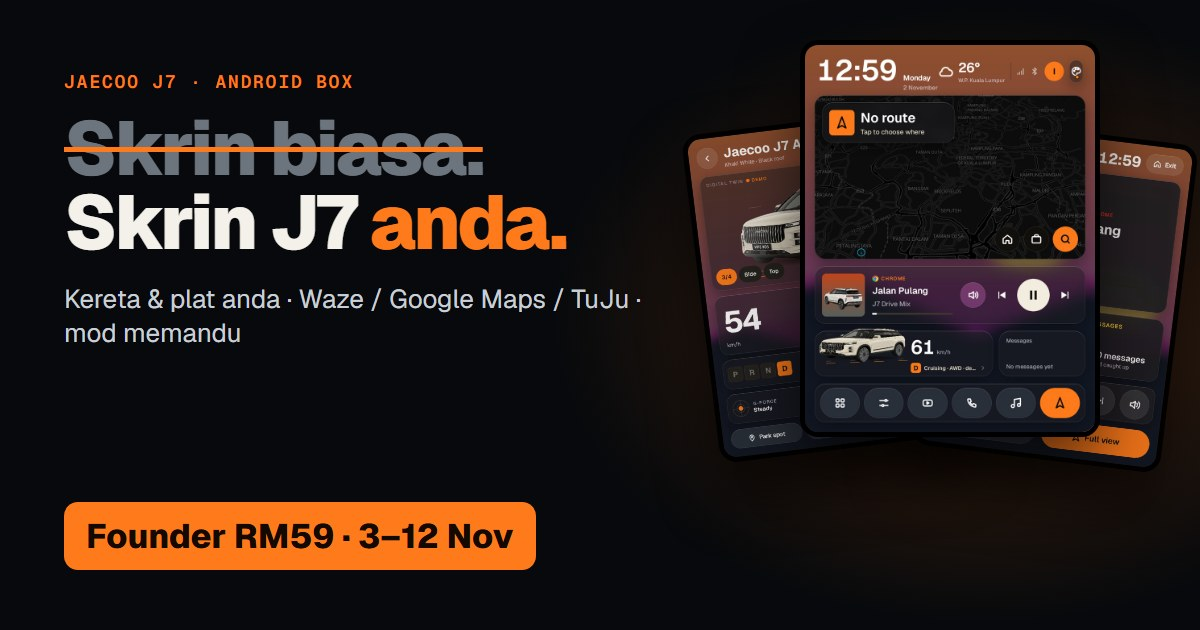
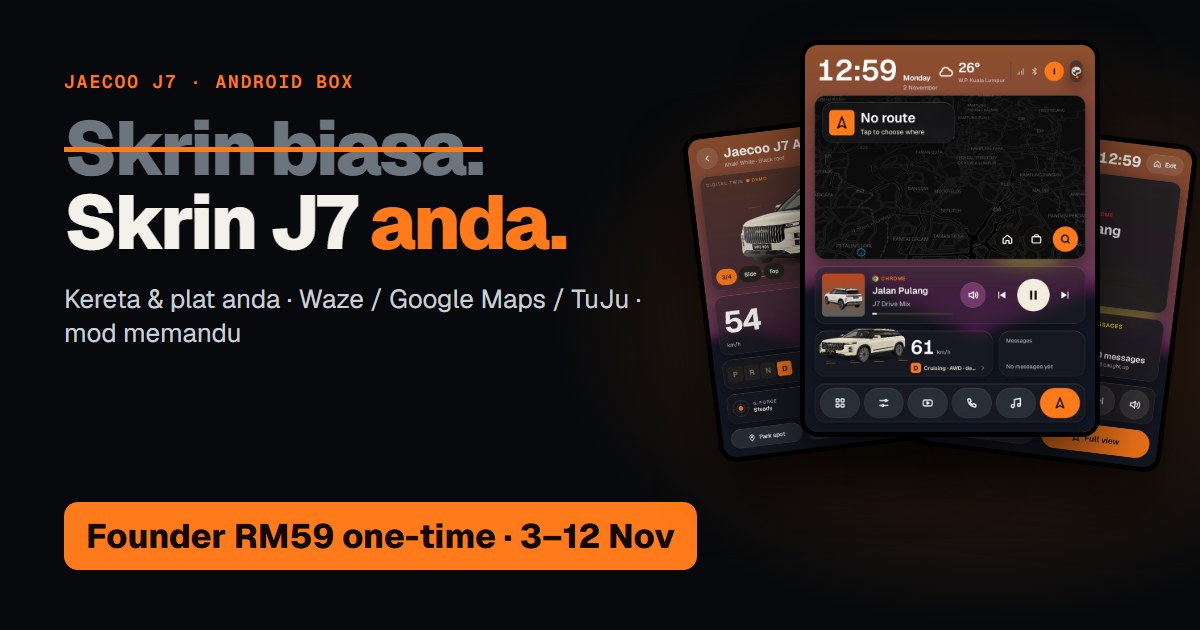
Say the price is a one-time payment, not monthly
Buyers asked whether the price is one-time or monthly. Every price now
says "Bayar sekali · tiada yuran bulanan" / "One-time payment · no
monthly fee": the banner, both price cards, the booking form's package
options, the terms and the share image. A new first FAQ answers it
directly, and the updates answer says the app keeps working after the
12 months. The portal's payment messages say it too.

Changed region(s): [[0.2775, 0.7841, 0.5858, 0.9048]]

diff --git a/index.html b/index.html
@@ -6,7 +6,7 @@
 <title>J7 Launcher · Pre-booking</title>
 <meta name="description" content="J7 Launcher: a custom screen for the Jaecoo J7's Android box, with your own car and plate number. Founder pre-order 3–12 Nov.">
 <meta property="og:title" content="J7 Launcher · Your J7's screen">
-<meta property="og:description" content="A custom screen for the Jaecoo J7's Android box: your car & plate, Waze / Google Maps / TuJu, driving mode. Founder price from RM59, 3–12 Nov. BM / EN.">
+<meta property="og:description" content="A custom screen for the Jaecoo J7's Android box: your car & plate, Waze / Google Maps / TuJu, driving mode. Founder price from RM59, one-time payment (no monthly fee), 3–12 Nov. BM / EN.">
 <meta property="og:image" content="https://j7launcher.github.io/img/share.jpg">
 <meta property="og:url" content="https://j7launcher.github.io/">
 <meta property="og:type" content="website">
@@ -60,7 +60,7 @@
     <div class="wrap offer-strip">
       <div><span class="k" data-i18n="strip.pre">Pre-order founder</span><b>3 – 12 Nov 2026</b></div>
       <div><span class="k" data-i18n="strip.slots">Slot</span><b id="slots" data-i18n="strip.slotsv">30 sahaja</b></div>
-      <div><span class="k" data-i18n="strip.from">Dari</span><b>RM59</b></div>
+      <div><span class="k" data-i18n="strip.from">Dari</span><b>RM59</b> <span class="k" data-i18n="strip.once">sekali bayar</span></div>
       <div class="count" aria-live="polite"><span class="k" data-i18n="strip.ends">Tamat dalam</span><b id="countdown">–</b></div>
     </div>
   </section>
@@ -107,11 +107,12 @@
   <section id="pricing" class="sec alt">
     <div class="wrap">
       <h2 data-i18n="price.h">Harga founder</h2>
-      <p class="sec-lead" data-i18n="price.lead">Untuk 30 tempahan pertama, 3–12 Nov. Mulai 13 Nov: harga biasa RM79 (Standard) dan RM119 (Pro).</p>
+      <p class="sec-lead" data-i18n="price.lead">Bayar sekali sahaja, tiada yuran bulanan. Untuk 30 tempahan pertama, 3–12 Nov. Mulai 13 Nov: harga biasa RM79 (Standard) dan RM119 (Pro).</p>
       <div class="plans">
         <div class="plan">
           <h3>Standard</h3>
           <p class="price"><b>RM59</b> <span class="norm" data-i18n="price.normS">biasa RM79 mulai 13 Nov</span></p>
+          <p class="once" data-i18n="price.once">Bayar sekali · tiada yuran bulanan</p>
           <ul>
             <li data-i18n="ps.1">Skrin utama khas dengan kereta &amp; plat anda</li>
             <li data-i18n="ps.2">Waze / Google Maps / TuJu, skrin belah &amp; dok</li>
@@ -125,6 +126,7 @@
           <span class="badge" data-i18n="price.best">Paling lengkap</span>
           <h3>Pro</h3>
           <p class="price"><b>RM89</b> <span class="norm" data-i18n="price.normP">biasa RM119 mulai 13 Nov</span></p>
+          <p class="once" data-i18n="price.once">Bayar sekali · tiada yuran bulanan</p>
           <ul>
             <li class="plus" data-i18n="pp.0">Semua dalam Standard, dan:</li>
             <li data-i18n="pp.1">Profil pemandu (sehingga 4 orang)</li>
@@ -135,7 +137,7 @@
           <a class="btn full" href="#book" data-pick="pro" data-i18n="price.pickP">Pilih Pro</a>
         </div>
       </div>
-      <p class="note" data-i18n-html="price.both">Kedua-dua: <b>dibina khas dengan nombor plat anda</b> · bantuan pasang melalui WhatsApp · kemas kini percuma 12 bulan (sampai dalam app) · <b>bayar hanya selepas sah serasi</b> · wang dikembalikan penuh jika tak berfungsi dalam 7 hari.</p>
+      <p class="note" data-i18n-html="price.both">Kedua-dua: <b>bayar sekali, app milik anda</b> · <b>dibina khas dengan nombor plat anda</b> · bantuan pasang melalui WhatsApp · kemas kini percuma 12 bulan (sampai dalam app) · <b>bayar hanya selepas sah serasi</b> · wang dikembalikan penuh jika tak berfungsi dalam 7 hari.</p>
     </div>
   </section>
 
@@ -261,8 +263,8 @@
         <fieldset>
           <legend data-i18n="g4">4 · Pilihan</legend>
           <div class="cards" role="radiogroup" aria-label="Package">
-            <label class="card"><input type="radio" name="package" value="Standard RM59" required><span><b>Standard</b> RM59</span></label>
-            <label class="card"><input type="radio" name="package" value="Pro RM89"><span><b>Pro</b> RM89</span></label>
+            <label class="card"><input type="radio" name="package" value="Standard RM59" required><span><b>Standard</b> RM59 <small data-i18n="price.oneoff">sekali bayar</small></span></label>
+            <label class="card"><input type="radio" name="package" value="Pro RM89"><span><b>Pro</b> RM89 <small data-i18n="price.oneoff">sekali bayar</small></span></label>
           </div>
           <div class="row2">
             <label><span data-i18n="q.nav">App peta utama</span>
@@ -324,10 +326,11 @@
   <section id="faq" class="sec">
     <div class="wrap narrow">
       <h2>FAQ</h2>
+      <details><summary data-i18n="q0">Bayar sekali atau bulanan?</summary><p data-i18n="a0">Bayar sekali sahaja. Tiada langganan dan tiada yuran bulanan: harga founder RM59 (Standard) atau RM89 (Pro), dan app itu milik anda. Termasuk kemas kini percuma 12 bulan; selepas itu app terus berfungsi seperti biasa.</p></details>
       <details><summary data-i18n="q1">Adakah ia menjejaskan waranti kereta?</summary><p data-i18n="a1">J7 Launcher hanya app pada Android box. Ia tidak mengubah kereta atau sistem Jaecoo, dan boleh dibuang bila-bila masa untuk kembali ke skrin asal.</p></details>
       <details><summary data-i18n="q2">Selamat digunakan ketika memandu?</summary><p data-i18n="a2">Mod memandu guna huruf besar dan butang besar. Video YouTube berhenti bila kereta bergerak; ada suis untuk penumpang, tetapi pemandu tidak boleh menonton ketika memandu.</p></details>
       <details><summary data-i18n="q3">Bagaimana dengan data saya?</summary><p data-i18n="a3">Mesej, muzik dan lokasi tidak dihantar kepada saya. Untuk peta, cuaca, had laju dan harga minyak, box meminta maklumat kawasan anda daripada perkhidmatan tersebut; suara amaran mungkin guna suara dalam talian Google. Lihat notis privasi di bawah untuk maklumat tempahan.</p></details>
-      <details><summary data-i18n="q4">Bagaimana kemas kini diterima?</summary><p data-i18n="a4">App menyemak kemas kini sendiri dan memberitahu anda; tekan Pasang. Percuma selama 12 bulan.</p></details>
+      <details><summary data-i18n="q4">Bagaimana kemas kini diterima?</summary><p data-i18n="a4">App menyemak kemas kini sendiri dan memberitahu anda; tekan Pasang. Percuma selama 12 bulan; selepas itu app terus berfungsi.</p></details>
       <details><summary data-i18n="q5">Kalau box saya tak serasi?</summary><p data-i18n="a5">Tiada bayaran. Jika sudah bayar dan app tak berfungsi dalam 7 hari, wang dikembalikan penuh.</p></details>
       <details><summary data-i18n="q6">Perlu adapter OBD?</summary><p data-i18n="a6">Tidak. Semua ciri berfungsi tanpa OBD, kecuali data OBD dan amaran minyak rendah dalam Pro (masih eksperimen).</p></details>
     </div>
@@ -340,7 +343,7 @@
       <p data-i18n="pv.2">Tujuan: menyemak keserasian, membina app khas untuk kereta anda, menghubungi anda dan memberi sokongan. Data disimpan dalam Google Sheet peribadi saya, tidak dijual atau dikongsi.</p>
       <p data-i18n="pv.3">Anda boleh minta salinan atau padam data anda bila-bila masa melalui WhatsApp 018-716 2505. Selaras dengan Akta Perlindungan Data Peribadi 2010.</p>
       <p data-i18n="pv.5">Kaunter tempahan di laman ini menunjukkan jumlah sebenar daripada senarai tempahan. Aktiviti terkini hanya menunjukkan negeri dan pakej, tanpa nama. Lawatan ke laman ini dikira tanpa nama (nombor rawak dalam pelayar anda, dari mana anda datang, bahasa, telefon atau komputer), tanpa kuki dan tanpa data peribadi.</p>
-      <p data-i18n="pv.4">Terma: harga founder untuk tempahan 3–12 Nov 2026. Bayaran hanya selepas keserasian disahkan. Wang dikembalikan penuh jika app tak berfungsi pada box anda dalam 7 hari selepas dipasang.</p>
+      <p data-i18n="pv.4">Terma: harga ialah bayaran sekali, bukan langganan. Harga founder untuk tempahan 3–12 Nov 2026. Bayaran hanya selepas keserasian disahkan. Wang dikembalikan penuh jika app tak berfungsi pada box anda dalam 7 hari selepas dipasang.</p>
     </div>
   </section>
 </main>

diff --git a/app.js b/app.js
@@ -25,6 +25,7 @@ const EN = {
   'strip.slots': 'Slots',
   'strip.slotsv': 'Only 30',
   'strip.from': 'From',
+  'strip.once': 'one-time',
   'strip.ends': 'Closes in',
   'feat.h': 'What you get',
   'feat.lead': 'Built and tested in my own J7 AWD. Everything below is in Standard unless marked Pro.',
@@ -47,7 +48,7 @@ const EN = {
   'f9.h': 'OBD data',
   'f9.p': 'With an OBD adapter: fuel level and the nearest station when fuel is low. Still experimental: not yet tested with an adapter in a car.',
   'price.h': 'Founder prices',
-  'price.lead': 'For the first 30 bookings, 3–12 Nov. From 13 Nov: normal price RM79 (Standard) and RM119 (Pro).',
+  'price.lead': 'One-time payment, no monthly fee. For the first 30 bookings, 3–12 Nov. From 13 Nov: normal price RM79 (Standard) and RM119 (Pro).',
   'price.normS': 'normal RM79 from 13 Nov',
   'price.normP': 'normal RM119 from 13 Nov',
   'ps.1': 'Custom home screen with your car & plate',
@@ -63,7 +64,9 @@ const EN = {
   'pp.3': 'YouTube videos when parked',
   'pp.4': 'OBD data (experimental, untested, needs an adapter)',
   'price.pickP': 'Choose Pro',
-  'price.both': 'Both: <b>built for your plate number</b> · install help on WhatsApp · 12 months of free updates (they arrive in the app) · <b>pay only after it\'s confirmed to fit</b> · full refund if it doesn\'t work within 7 days.',
+  'price.once': 'One-time payment · no monthly fee',
+  'price.oneoff': 'one-time',
+  'price.both': 'Both: <b>pay once, the app is yours</b> · <b>built for your plate number</b> · install help on WhatsApp · 12 months of free updates (they arrive in the app) · <b>pay only after it\'s confirmed to fit</b> · full refund if it doesn\'t work within 7 days.',
   'fit.h': 'Does it fit your car?',
   'fit.lead': 'J7 Launcher installs on the Android box (AI box) connected to the J7\'s screen. It doesn\'t change the car\'s own systems.',
   'fit.1': 'Jaecoo J7 (tested on the J7 AWD; other variants I check first)',
@@ -140,6 +143,8 @@ const EN = {
   'about.p2': 'This is an independent project: not an official Jaecoo or Chery product, and it doesn\'t touch the car\'s systems. You deal with me directly.',
   'about.contact': 'Contact',
   'about.wa': 'WhatsApp me',
+  'q0': 'Is it a one-time payment or monthly?',
+  'a0': 'One-time payment. No subscription and no monthly fee: the founder price is RM59 (Standard) or RM89 (Pro), and the app is yours. It includes 12 months of free updates; after that the app keeps working as it is.',
   'q1': 'Does it affect my car\'s warranty?',
   'a1': 'J7 Launcher is only an app on the Android box. It doesn\'t change the car or Jaecoo\'s systems, and you can remove it any time to get the original screen back.',
   'q2': 'Is it safe to use while driving?',
@@ -147,7 +152,7 @@ const EN = {
   'q3': 'What about my data?',
   'a3': 'Messages, music and location are never sent to me. For maps, weather, speed limits and fuel prices, the box asks those services about your area; spoken alerts may use Google\'s online voice. See the privacy notice below for your booking details.',
   'q4': 'How do updates arrive?',
-  'a4': 'The app checks for updates by itself and tells you; tap Install. Free for 12 months.',
+  'a4': 'The app checks for updates by itself and tells you; tap Install. Free for 12 months; after that the app keeps working.',
   'q5': 'What if my box doesn\'t fit?',
   'a5': 'No payment. If you\'ve paid and the app doesn\'t work within 7 days, you get a full refund.',
   'q6': 'Do I need an OBD adapter?',
@@ -156,7 +161,7 @@ const EN = {
   'pv.1': 'Data collected: name, WhatsApp number, email (optional), state, car details, plate number, Android box details and your choices.',
   'pv.2': 'Purpose: checking compatibility, building the app for your car, contacting you and supporting you. Kept in my private Google Sheet, never sold or shared.',
   'pv.3': 'You can ask for a copy or deletion of your data any time on WhatsApp 018-716 2505, in line with the Personal Data Protection Act 2010.',
-  'pv.4': 'Terms: founder prices for bookings from 3–12 Nov 2026. Payment only after compatibility is confirmed. Full refund if the app doesn\'t work on your box within 7 days of installation.',
+  'pv.4': 'Terms: prices are one-time payments, not a subscription. Founder prices for bookings from 3–12 Nov 2026. Payment only after compatibility is confirmed. Full refund if the app doesn\'t work on your box within 7 days of installation.',
   'foot.ind': 'Independent project · not an official Jaecoo / Chery product',
   'm.left': 'founder slots left',
   'm.booked': 'already booked',

diff --git a/apps-script/Portal.html b/apps-script/Portal.html
@@ -433,13 +433,13 @@ const MSGS = {
   },
   serasi: {
     label: 'Fits: price + bank',
-    ms: (o) => `Berita baik ${firstName(o)}: box anda serasi ✅\n\nPakej *${pkgName(o)}*${onsite(o) ? ' + pasang di lokasi' : ''}: *RM${amount(o)}*\nBayaran melalui DuitNow / pindahan:\n${bankText('ms')}\n\nHantar resit di sini, dan saya mula bina app dengan plat ${o.plate} anda. Pemasangan ${S.settings.window}.`,
-    en: (o) => `Good news ${firstName(o)}: your box fits ✅\n\nPackage *${pkgName(o)}*${onsite(o) ? ' + on-site install' : ''}: *RM${amount(o)}*\nPay by DuitNow / bank transfer:\n${bankText('en')}\n\nSend the receipt here and I’ll start building your app with plate ${o.plate}. Installs ${S.settings.window}.`,
+    ms: (o) => `Berita baik ${firstName(o)}: box anda serasi ✅\n\nPakej *${pkgName(o)}*${onsite(o) ? ' + pasang di lokasi' : ''}: *RM${amount(o)}*, bayar sekali sahaja (bukan bulanan)\nBayaran melalui DuitNow / pindahan:\n${bankText('ms')}\n\nHantar resit di sini, dan saya mula bina app dengan plat ${o.plate} anda. Pemasangan ${S.settings.window}.`,
+    en: (o) => `Good news ${firstName(o)}: your box fits ✅\n\nPackage *${pkgName(o)}*${onsite(o) ? ' + on-site install' : ''}: *RM${amount(o)}*, a one-time payment (not monthly)\nPay by DuitNow / bank transfer:\n${bankText('en')}\n\nSend the receipt here and I’ll start building your app with plate ${o.plate}. Installs ${S.settings.window}.`,
   },
   nudgePay: {
     label: 'Reminder: payment',
-    ms: (o) => `Salam ${firstName(o)} 👋 Tempahan ${o.ref} (${o.plate}) masih menunggu bayaran *RM${amount(o)}*. Harga founder dikekalkan untuk anda. Ada soalan, tanya je 🙏` + (S.qr ? `\n\n${qrLine('ms')}` : ''),
-    en: (o) => `Hi ${firstName(o)} 👋 Booking ${o.ref} (${o.plate}) is still waiting for the payment of *RM${amount(o)}*. Your founder price is kept for you. Any questions, just ask 🙏` + (S.qr ? `\n\n${qrLine('en')}` : ''),
+    ms: (o) => `Salam ${firstName(o)} 👋 Tempahan ${o.ref} (${o.plate}) masih menunggu bayaran sekali *RM${amount(o)}*. Harga founder dikekalkan untuk anda. Ada soalan, tanya je 🙏` + (S.qr ? `\n\n${qrLine('ms')}` : ''),
+    en: (o) => `Hi ${firstName(o)} 👋 Booking ${o.ref} (${o.plate}) is still waiting for the one-time payment of *RM${amount(o)}*. Your founder price is kept for you. Any questions, just ask 🙏` + (S.qr ? `\n\n${qrLine('en')}` : ''),
   },
   takSerasi: {
     label: 'Doesn’t fit',

diff --git a/style.css b/style.css
@@ -93,6 +93,7 @@ h2{font-size:clamp(30px,5vw,44px);font-weight:800;letter-spacing:-.025em}
 .price{margin:8px 0 16px;color:var(--muted)}
 .price b{font-size:52px;font-weight:850;letter-spacing:-.03em;color:var(--ink)}
 .price .norm{font-size:15px;margin-left:6px}
+.once{margin:-10px 0 14px;font-size:14px;font-weight:650;color:var(--accent)}
 .plan ul{list-style:none;padding:0;margin:0 0 22px;display:flex;flex-direction:column;gap:9px;flex:1}
 .plan li{padding-left:26px;position:relative;color:#d3d8de;font-size:15.5px}
 .plan li::before{content:"";position:absolute;left:3px;top:7px;width:11px;height:6px;border-left:2.5px solid var(--ok);border-bottom:2.5px solid var(--ok);transform:rotate(-45deg)}
